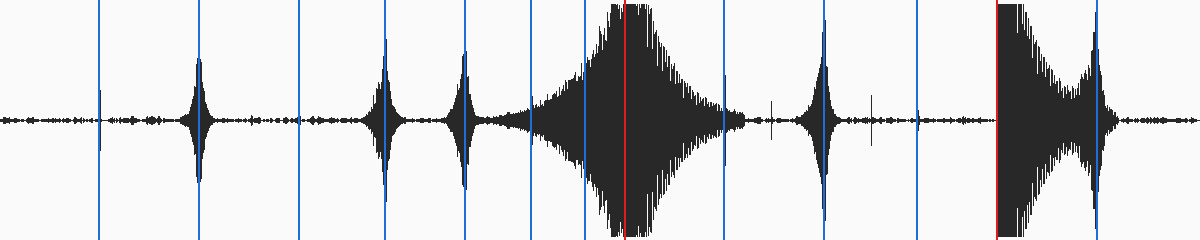
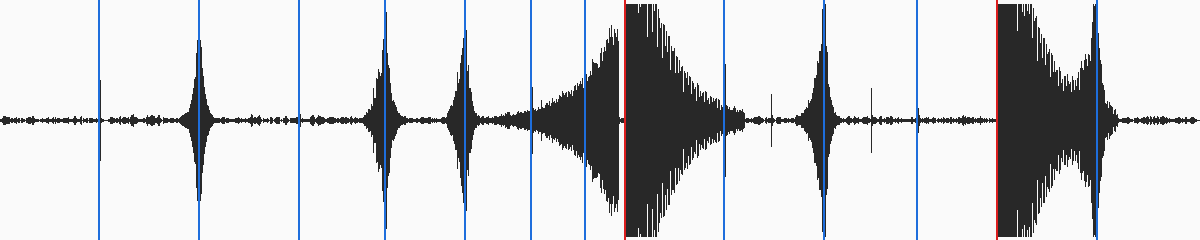
Culture : fiche Interstellar (rythme), goût de l'utilisateur
Claude-Session: https://claude.ai/code/session_01Vwuc2CmrtBg5vWFM7jieWS

diff --git a/labo/kinetic/kinetic_demo.py b/labo/kinetic/kinetic_demo.py
@@ -134,7 +134,7 @@ for k, c in enumerate(COUPES):
         poser(whoosh(av, 3, f0=250 + 80 * k, f1=3000 + 300 * k), c, -10 - (k % 3) * 2, f"whoosh_{av}i")
     else:
         poser(click(), c, -20, "click_coupe")
-poser(riser(30), debuts[IMPACT], -6, "riser")
+poser(riser(30), debuts[IMPACT] - 1, -12, "riser")  # v2 : -12 dB et coupé 1 image AVANT l'impact (trou = "suck-out")
 poser(whoosh(5, 4, 200, 2500), debuts[PUNCH], -12, "whoosh_punch")  # le punch-in a sa propre ponctuation
 
 # Texte mot à mot (calé sur les plans 10-13) + click doux par mot
@@ -170,17 +170,18 @@ m1 = ebur(sfx_wav)
 gain = -14.0 - m1["I"]
 af = f"volume={gain:.2f}dB"
 if m1["TP"] + gain > -1.5:
-    af += ",aresample=192000,alimiter=limit=0.8414:attack=1:release=50:level=false,aresample=48000"
+    af += ",aresample=192000,alimiter=limit=0.7079:attack=1:release=50:level=false,aresample=48000"
 sfx_norm = os.path.join(REND, "sfx_norm.wav")
 run(["ffmpeg", "-y", "-v", "error", "-i", sfx_wav, "-af", af, "-ar", "48000", "-c:a", "pcm_s24le", sfx_norm])
 m2 = ebur(sfx_norm)
 gain2 = 0.0
-if abs(m2["I"] + 14) > 0.5:  # le limiteur a mangé du niveau : 2e passe de gain sous limiteur
-    gain2 = -14.0 - m2["I"]
-    af2 = f"volume={gain2:.2f}dB,aresample=192000,alimiter=limit=0.8414:attack=1:release=50:level=false,aresample=48000"
-    run(["ffmpeg", "-y", "-v", "error", "-i", sfx_wav, "-af", af.split(",")[0] + "," + af2, "-ar", "48000",
-         "-c:a", "pcm_s24le", sfx_norm])
-    m2 = ebur(sfx_norm)
+passes = 1
+while abs(m2["I"] + 14) > 0.3 and passes < 5:  # le limiteur mange du niveau : on itère gain + limiteur
+    gain2 += -14.0 - m2["I"]
+    af2 = (f"volume={gain + gain2:.2f}dB,aresample=192000,alimiter=limit=0.7079:attack=1:release=50:level=false,"
+           "aresample=48000")
+    run(["ffmpeg", "-y", "-v", "error", "-i", sfx_wav, "-af", af2, "-ar", "48000", "-c:a", "pcm_s24le", sfx_norm])
+    m2 = ebur(sfx_norm); passes += 1; af = af2
 
 # ---------- 4. Vidéo : plans -> concat -> texte mot à mot -> mux ----------
 fichiers = [plan(i) for i in range(len(DUREES))]
@@ -210,7 +211,7 @@ a = np.frombuffer(pcm, np.float32)
 onsets = {}
 for idx in (IMPACT, IMPACT2):
     c = int(debuts[idx]) * SPF
-    w = a[c - 3 * SPF:c + 3 * SPF]
+    w = np.convolve(a[c - 3 * SPF:c + 3 * SPF], np.ones(240) / 240, mode="same")  # passe-bas ~200 Hz : ignore riser/whoosh
     k = int(np.argmax(np.abs(w) > 0.5 * np.max(np.abs(w))))
     onsets[f"plan{idx}"] = {"coupe_image": int(debuts[idx]), "onset_ms_vs_coupe": round((k - 3 * SPF) / SR * 1000, 1)}
 
@@ -238,7 +239,7 @@ onde = os.path.join(ICI, "forme_onde_coupes.png")
 run(["ffmpeg", "-y", "-v", "error", "-i", ppm, onde])
 
 res = {"durees_images": DUREES, "coupes_images": COUPES, "coupes_detectees_mp4": coupes_det,
-       "sfx": evenements, "loudness_sfx_brut": m1, "gain_db": round(gain, 2), "gain2_db": round(gain2, 2),
+       "sfx": evenements, "loudness_sfx_brut": m1, "gain_db": round(gain, 2), "gain2_db": round(gain2, 2), "passes": passes,
        "filtre": af, "loudness_sfx_norm": m2, "loudness_mp4": m3, "onsets_impact": onsets,
        "planche_ko": round(os.path.getsize(planche) / 1024, 1), "onde_ko": round(os.path.getsize(onde) / 1024, 1)}
 json.dump(res, open(os.path.join(ICI, "mesures.json"), "w"), indent=1, ensure_ascii=False, default=int)

diff --git a/culture/joker-couleur-image.md b/culture/joker-couleur-image.md
@@ -1,0 +1,88 @@
+# Joker — couleur et image (Lawrence Sher, Jill Bogdanowicz)
+
+- **Œuvre** : *Joker*, réalisé par Todd Phillips, 2019 (Lion d'or à Venise). Goût déclaré de l'utilisateur dans GOUTS.md : la **couleur** et l'**image**.
+- **Chef opérateur** : Lawrence Sher, ASC (fidèle de Phillips depuis *Very Bad Trip*). **Étalonneuse** : Jill Bogdanowicz (Company 3), prix HPA 2020 du meilleur étalonnage de long métrage. LUT conçue avec son père Mitch Bogdanowicz, ingénieur couleur passé par Kodak.
+- **Costumes** : Mark Bridges. **Décors** : Mark Friedberg. **VFX** : Scanline VFX et Shade VFX, effets presque invisibles.
+- **Format** : tourné en numérique (le 65 mm argentique voulu au départ a été refusé pour des raisons de coût). Surtout ARRI Alexa 65, plus Alexa LF et Mini LF ; optiques anciennes reconditionnées (ARRI Prime DNA, Vintage 765, Prime 65, plus des optiques photo Canon, Leica, Nikon et Zeiss). Ratio supposé 1.85:1 (non vérifié).
+- **Sources** :
+  - Slashfilm, entretien de Sher avec spoilers : https://www.slashfilm.com/569901/joker-cinematographer-interview/
+  - No Film School, reprise de l'entretien Variety (escaliers, métro) : https://nofilmschool.com/joker-lawrence-sher-interview
+  - Variety, escaliers et métro : https://variety.com/2019/artisans/features/joker-stairs-subway-scene-cinematographer-lawrence-sher-1203396242
+  - CineD, « Inside the look of Joker » : https://cined.com/inside-the-look-of-joker
+  - ASC, conversation de Sher avec Jim Hemphill et podcast : https://theasc.com/news/clubhouse-conversation-lawrence-sher-asc-on-joker et https://theasc.com/podcasts/joker-lawrence-sher-asc (lus via des résumés de recherche)
+  - Company 3, Bogdanowicz sur la LUT de *Folie à Deux*, qui reprend celle de 2019 : https://www.company3.com/?p=47557 ; prix HPA : https://www.company3.com/?p=24138
+  - Costume : https://www.motionpictures.org/2019/10/joker-costume-designer-mark-bridges/ et https://highsnobiety.com/p/joaquin-phoenix-joker-suit-explained
+  - Wikipédia (production, VFX, décors) : https://en.wikipedia.org/wiki/Joker_(2019_film) ; Scanline : https://digitalproduction.com/2020/08/21/joker-vfx-reel/
+
+## Ce que l'œuvre cherche à faire ressentir ou comprendre
+
+Il s'agit de rendre **physique** une ville malade et un homme qui y étouffe, puis de faire ressentir sa « libération » comme une **éclosion** séduisante et inquiétante à la fois. Sher veut retrouver le **souvenir** que l'on garde des films new-yorkais de la fin des années 70, pas leur rendu exact (« la mémoire du film », selon CineD). Il ne cherche pas l'exactitude technique. Le spectateur doit sentir la saleté, la fatigue et l'isolement d'Arthur, puis, quand il bascule, être **gêné d'être séduit** par la chaleur et l'énergie de l'image. Le film refuse le vernis du film de super-héros : on doit croire à un film d'auteur de 1981.
+
+## Les choix qui produisent cet effet
+
+- **Palette « malade »** : verts sales, jaune-orangé sodium, bleus de crépuscule, bruns et mauves délavés. Le vert n'est pas corrigé, c'est voulu : Sher explique qu'il aurait pu retirer la pointe de vert des rames de métro à l'étalonnage et qu'il l'a gardée pour la saleté de la ville (No Film School). Les vêtements d'Arthur (bleu, bordeaux, brun, mauve, gris, tissus « vieillis, surteints ») se fondent dans cette boue colorée (Wikipédia, d'après Bridges).
+- **Lumière motivée, technologie ancienne** : en extérieur, des **lampes à vapeur de sodium**, orange avec une pointe de vert (No Film School, Slashfilm, Wikipédia) ; en intérieur, des **tubes fluorescents toujours filtrés vers le vert**, jamais d'un blanc propre (No Film School). Sher dit avoir tenu à l'« ancienne technologie » : tungstène, HMI, softs de type Zip (British Cinematographer). Les LED servent seulement de complément caché (déboucher un fond, souligner un visage), parce qu'elles n'existaient pas en 1981. CineD parle de **vapeur de mercure** pour le couple orange-vert : c'est cohérent avec la physique (le mercure donne du bleu-vert) mais je n'ai qu'une source.
+- **Code émotionnel chaud/froid** : le bleu du crépuscule figure l'isolement d'Arthur, la lumière chaude son espoir ; la chaleur **revient à la fin, quand il choisit sa part sombre** (Slashfilm, Wikipédia). C'est le renversement central : le chaud, d'habitude rassurant, devient la couleur de la violence assumée.
+- **Émulation pellicule** : avant le tournage, une LUT de plateau a été construite pour évoquer les négatifs et positifs de la fin des années 70 et du début des années 80. Elle viserait la Kodak EXR 200T 5293 (résumé ASC, CineD dit « Kodak 5293 ») et donnerait une légère dominante cyan dans les ombres (résumé Company 3, plutôt à propos de la suite). Le grain serait de type « scan argentique » par canal R/V/B, plus présent sur les fonds froids et allégé sur les peaux (résumé d'un podcast de Cullen Kelly) : **incertain**.
+- **Optiques** : un jeu de verres anciens que Sher qualifie de « Frankenstein » (CineD). Il les a choisis pour le vignettage, les flares et les défauts d'époque. Le grand capteur de l'Alexa 65 donne une profondeur de champ courte qui isole Arthur de son décor.
+- **Contraste** : noirs denses mais pas bouchés, hautes lumières douces (rendu pellicule), l'image **s'assombrit** à mesure qu'Arthur change (CineD).
+- **Cadre et mouvement** : d'abord de **longs plans fixes**, des panoramiques et des tilts lents, puis de plus en plus de **caméra portée en courte focale**, plus énergique à mesure qu'Arthur se transforme (CineD, Slashfilm). Le cadre est improvisé autour de Phoenix, sans marques ni répétitions (Slashfilm). Les miroirs reviennent souvent pour montrer ses deux visages, triste puis sûr de lui.
+- **Effets visuels minimaux** : décors réels à New York, Newark et Jersey City. Les VFX servent à effacer les anachronismes, à prolonger les décors et à ajouter des immeubles, et ne se voient pas (Scanline, Wikipédia). L'image paraît « trouvée », pas fabriquée.
+
+**Scène 1, le métro (meurtres des trois traders).** Une rame en studio, des panneaux LED qui simulent le défilement, la lumière intérieure et extérieure pilotée depuis une console. Sher parle d'un « rêve fiévreux ». La règle est de ne **jamais filmer Arthur à hauteur d'yeux**, tout en caméra portée, avec une seule caméra (Geoffrey Haley seul dans la rame) et des courtes focales très près de lui (No Film School, Slashfilm). Au moment de la violence, les tubes s'éteignent et des **éclairs chauds venus de l'extérieur** découpent l'action. Le vert du métro se retrouve en plein dans le noir, avec des éclats orange. La couleur et la lumière se mettent à « penser » comme Arthur.
+
+**Scène 2, les toilettes publiques juste après.** Une danse lente improvisée en un seul plan, éclairée pour qu'Arthur puisse aller n'importe où dans la pièce, filmée à deux caméras sur la musique de Hildur Guðnadóttir que Phillips diffusait sur le plateau (Slashfilm). Les tons sont verts et sales, la lumière plafonnière fluorescente (lecture à l'écran). C'est la première fois que son corps prend l'espace : le décor reste malade, mais le mouvement devient gracieux.
+
+**Scène 3, les escaliers (180 marches, Bronx).** À l'aller, Arthur monte, fatigué, au crépuscule, dans des tons froids, filmé en panoramiques et tilts lents, avec un plan fixe en haut (No Film School). Au retour, il les descend en dansant, en costume rouge, sous un **soleil chaud en contre-jour**. La caméra est basse, sur une Technocrane, fluide, et Sher dit qu'il est puissant « peut-être pour la première fois de sa vie » (Slashfilm). C'est le même décor avec la lumière, la hauteur de caméra et le mouvement inversés : tout le récit tient dans ce plan.
+
+**Scène 4, le plateau de Murray Franklin.** Au début, on a la grammaire d'une émission de télé : plan seul de l'invité, plan à deux, Murray, plan large. Puis la caméra prend des angles **invisibles pour le public du show** et se resserre peu à peu jusqu'au très gros plan et aux amorces inversées depuis derrière le canapé et le bureau (Slashfilm). Le costume (bordeaux-rouge, gilet doré ou orange, chemise verte : « vert, or et rouge » selon Bridges) éclate sur le décor bleuté du plateau. Un projecteur dur l'éblouit (analyse de coloriste, colorculture.org, non vérifiée). C'est l'apogée de la saturation.
+
+**Scène 5 (finale), l'émeute.** Arthur regarde la ville en feu à travers la vitre de la voiture de police. Ce plan répond presque cadre pour cadre à un plan antérieur dans le bus, pris au même endroit et à la même hauteur (Slashfilm). Ensuite, debout sur le capot, il est éclairé par le feu, filmé en position de force, à l'opposé de son invisibilité du début. Le rouge et l'orange ont remplacé le vert.
+
+**Évolution sur tout le récit** : on passe d'un vert-cyan désaturé, froid et terne à un vert cassé où pointent les sodiums chauds, puis à un rouge-orange saturé (costume, feu, plateau télé). Le passage n'est pas linéaire : la chaleur sert d'abord l'espoir (Sophie, la mère), puis la violence.
+
+## Pourquoi ça marche, et ce qui serait raté si on changeait ces choix
+
+- **Avec un vert corrigé** et des tubes neutres, Gotham deviendrait une ville de série télé propre. On perdrait la sensation que l'air lui-même est malade, qui justifie la colère d'Arthur.
+- **Avec un teal & orange standard**, les peaux orange et les fonds bleus nets, on aurait un blockbuster lisible mais anonyme. La force de *Joker* vient de ce que **même ses chauds sont sales** : un orange sodium tirant vers le vert n'a rien de flatteur.
+- **Avec des LED et de la lumière douce partout**, on aurait un rendu contemporain et uniforme. La lumière d'époque, ponctuelle et colorée, donne des visages inégalement éclairés, donc vrais.
+- **Avec une caméra portée dès le début**, rien ne « libérerait » à la fin. C'est la retenue des plans fixes qui rend la Technocrane des escaliers euphorique.
+- **Avec un costume final désaturé**, la transformation perdrait son caractère d'événement. Le rouge n'a d'effet que parce qu'on en a été privé pendant 90 minutes.
+- **Avec une image numérique propre, sans LUT film ni grain**, l'année 1981 serait jouée par les décors seuls. Ici c'est la matière de l'image qui date le film.
+
+## Les ficelles réutilisables
+
+1. **Garder la dominante « fausse » au lieu de la corriger.** Un vert de tube fluo ou de sodium assumé raconte un lieu et un état. *Pub* : pour une campagne de prévention ou une marque de boisson énergisante « nuit urbaine », tourner en parking réel sous tubes, garder un vert dans les ombres et ne rendre leur couleur juste qu'aux peaux et au produit.
+2. **La chaleur se mérite.** Priver l'image de couleurs saturées pendant la majeure partie du film, puis lâcher une seule couleur forte (le rouge du costume) au moment de la bascule. *Clip* : couplets verdâtres et éteints, refrain où l'artiste apparaît dans un vêtement rouge sous un contre-jour chaud.
+3. **Inverser un même décor.** Revenir au même lieu en changeant la lumière (froid de face, puis chaud en contre-jour), la hauteur de caméra (haute, puis basse) et le mouvement (fixe, puis grue). *Corporate* : le même couloir au début (néons, plan fixe, salarié de dos) et à la fin (lumière du jour, caméra basse qui le suit).
+4. **Lumière motivée par des sources d'époque ou du lieu.** Chaque teinte doit venir d'une lampe visible ou plausible ; les LED restent cachées et ne servent qu'à déboucher. *Réseaux sociaux* : pour un format vertical de nuit, utiliser un lampadaire sodium comme lumière principale et un panneau LED caché uniquement pour sortir l'œil.
+5. **Grammaire de caméra qui évolue avec le personnage.** D'abord fixe, à hauteur neutre, ensuite portée, basse, en courte focale. *Pub en mini-série* : le premier épisode en plans fixes, le dernier en caméra portée, et le spectateur ressent le changement sans pouvoir le nommer.
+6. **Casser la grammaire télé pour créer la tension.** Commencer par les angles « officiels » (plan seul, plan à deux, plan large), puis glisser vers des angles impossibles pour un public et des gros plans serrés. *Interview corporate* : quand la parole devient sincère ou dure, quitter le dispositif à deux caméras pour un plan serré décentré.
+7. **[THÉORIQUE] Approcher le look dans DaVinci Resolve** (principes, pas une recette) :
+   - travailler en espace large (DaVinci Wide Gamut ou ACES), avec une LUT ou un DCTL d'émulation de négatif plus positif plutôt qu'une LUT créative toute faite ;
+   - ombres poussées légèrement vers le cyan-vert, noirs relevés d'un ou deux points et jamais purement neutres ;
+   - hautes lumières qui roulent doucement et tirent vers un jaune-orangé ;
+   - séparation des teintes : sortir les peaux du vert avec un qualificateur HSL ou les Color Warper, sans les rendre roses, et garder le rouge du costume dense, un peu sombre, plutôt que fluo ;
+   - saturation globale basse, sauf une teinte ;
+   - grain argentique par canal, plus présent dans les fonds froids que sur les peaux, un léger halo sur les sources ;
+   - faire évoluer le réglage par scène ou par chapitre au lieu d'appliquer un seul look à tout le film.
+8. **Cacher les VFX derrière le réel.** Tourner en décor vrai et réserver le compositing au nettoyage et aux extensions. *Pub produit* : packshot dans un vrai lieu, logo anachronique effacé en post, plutôt qu'un fond tout en image de synthèse.
+
+## Limites / quand ne pas l'appliquer
+
+- **Le « look Joker » plaqué** : une LUT verdâtre et du grain sur une vidéo sans récit de chute ni de bascule, c'est un filtre, pas une intention. Tout le système repose sur l'**évolution**. Un look fixe de 30 secondes n'en garde que la saleté.
+- **Image de marque** : un vert sale sur les peaux et les produits alimentaires ou cosmétiques fait vite malade, ou pas frais. Il faut réserver ce traitement aux fonds.
+- **Connotations** : le film a été critiqué pour sa complaisance supposée envers la violence de son héros. Reprendre son esthétique pour une marque, c'est importer ce soupçon. Prudence sur les sujets sensibles (santé mentale, armes).
+- **Pastiche** : plusieurs critiques ont trouvé le film trop dérivé de *Taxi Driver* et de *La Valse des pantins* (Harvard Crimson ; NoHo Arts District, « un brin dérivatif »), d'autres y voient un hommage assumé (Motion State Review). Reprendre *Joker*, c'est copier une copie : il vaut mieux remonter aux sources (Scorsese, Lumet, *Serpico*, *Vol au-dessus d'un nid de coucou*, toutes citées comme références selon CineD).
+- **Diffusion mobile** : des noirs denses et un vert sombre sur un téléphone en plein jour, ça donne de la boue. Il faut un contraste un peu plus franc et vérifier sur un écran de smartphone.
+- **Moyens** : ce rendu tient aussi à un capteur 65 mm et à des optiques anciennes. Avec un petit capteur et des optiques modernes très piquées, la même grille d'étalonnage paraît plus « filtre Instagram ».
+
+## Points non vérifiés
+
+- Ratio 1.85:1 : supposé, aucune source trouvée.
+- La pellicule émulée (Kodak EXR 200T 5293) repose sur un résumé ASC et sur CineD, sans lecture directe de l'article d'American Cinematographer. Je n'ai pas vérifié non plus que cette pellicule date bien de la fin des années 80, ce qui la rendrait techniquement postérieure à 1981.
+- La dominante cyan dans les ombres et le grain par canal R/V/B moins présent sur les peaux viennent de résumés (Company 3 sur *Folie à Deux*, podcast Cullen Kelly). Rien ne garantit qu'ils s'appliquent exactement au film de 2019.
+- Vapeur de mercure : une seule source (CineD). Le sodium est confirmé par trois sources.
+- La couleur exacte du gilet final (or ou orange) et celle de la chemise (vert ou teal) varient selon les sources.
+- La couleur des toilettes et le projecteur dur du plateau de Murray viennent de ma lecture à l'écran et d'un blog, pas d'une déclaration de l'équipe.
+- Le partage exact entre les optiques DNA, Vintage 765 et photo selon les scènes n'a pas été vérifié.

diff --git a/culture/interstellar-rythme.md b/culture/interstellar-rythme.md
@@ -1,0 +1,104 @@
+# Interstellar — le rythme comme horloge (goût de l'utilisateur)
+
+- **Film** : *Interstellar*, 2014, 169 min (Slashfilm).
+- **Réalisation** : Christopher Nolan. **Montage** : Lee Smith (6e film avec Nolan, selon Cinemontage). **Musique** : Hans Zimmer (orgue Harrison & Harrison de 1926 du Temple Church de Londres, joué par Roger Sayer). **Son** : Richard King (supervision du montage son). **Image** : Hoyte van Hoytema.
+- **Format** : environ 60 à 70 min tournées en IMAX 65/70 mm, le reste en 35 mm anamorphique (van Hoytema, Den of Geek). Ratio qui change entre 2,39 et 1,43/1,90 en IMAX.
+- **Pourquoi cette fiche** : l'utilisateur aime le film « pour son RYTHME ». On démonte les mécanismes, sans copier le film.
+- **Sources** :
+  - Post Magazine, entretien Lee Smith (déc. 2014) : https://www.postmagazine.com/Publications/Post-Magazine/2014/December-1-2014/Interstellar-Editor-Lee-Smith-ACE.aspx
+  - Cinemontage, montage d'*Interstellar* (Smith, Nolan) : https://cinemontage.org/interstellar-exploration-space-well-filmmaking/ (non lu en entier, page vide ; via résumé de recherche)
+  - Slashfilm, Nolan défend son mixage : https://www.slashfilm.com/534906/christopher-nolan-interstellar-sound-problems
+  - AP, « Movie mumbles » (dialogues couverts, amarrage compris) : https://www.covnews.com/nationworld/movie-mumbles-the-story-behind-the-interstellar-dialogue/
+  - No Film School, musique calée sur la physique : https://nofilmschool.com/interstellar-music-timed-to-physics
+  - No Film School, l'horloge cachée dans la musique (essai vidéo d'Entertain the Elk) : https://nofilmschool.com/2018/06/interstellars-ticking-clock-hiding-suspense-plain-sight
+  - Cineworld, tic de 1,25 s : https://customerservice.cineworld.co.uk/static/en/uk/blog/hans-zimmer-best-interstellar-soundtrack-moments
+  - Wikipedia, bande originale (lettre de Nolan, orgue, Roger Sayer) : https://en.wikipedia.org/wiki/Interstellar_(soundtrack)
+  - Classic FM, genèse de la musique : https://www.classicfm.com/composers/zimmer/how-wrote-interstellar-music/
+  - Den of Geek, van Hoytema (IMAX, références NASA) : https://www.denofgeek.com/movies/interview-interstellar-cinematographer-hoyte-van-hoytema/
+  - Filmmaker Magazine, son (Richard King) : https://filmmakermagazine.com/?p=88429
+  - Slashfilm, durée : https://www.slashfilm.com/how-long-is-interstellar-running-time
+
+## Ce que l'œuvre cherche à faire ressentir ou comprendre
+
+- **Le temps comme coût.** Chaque minute passée par Cooper dans l'espace se paie en années perdues avec ses enfants. Le film veut qu'on *sente* la relativité dans le ventre, pas qu'on la comprenne au tableau.
+- **Un père et une fille séparés.** Avant toute science-fiction, Nolan a donné à Zimmer une lettre sur le lien parent-enfant, sans dire que c'était un film spatial (Wikipedia, Classic FM, No Film School : trois sources concordent). Le rythme sert ce noyau intime.
+- **Le réalisme documentaire de l'espace** : un vaisseau qui grince, des plans comme filmés par une caméra embarquée, une IMAX inspirée des images de missions NASA (van Hoytema). Le spectaculaire vient de l'échelle, pas de l'effet.
+- **Une expérience physique** : Nolan parle d'un film « expérientiel » où le son est traité de façon « impressionniste » (Slashfilm).
+
+## Les choix qui produisent ce rythme
+
+**Principe général : deux horloges qui ne tournent pas à la même vitesse, et le montage les fait se frotter.** L'espace est « lent » (minutes), la Terre est « rapide » (années). Chaque retour d'une ligne à l'autre rend visible l'écart.
+
+**Séquence 1 — Le départ de la ferme (fin du premier acte, autour de 50 min, à vérifier).**
+- Cooper quitte Murph fâchée. Il monte dans le pick-up, Murph sort en courant et l'appelle. Sur ces images, on entend **un compte à rebours** qui appartient à la scène suivante : c'est un *prélap* sonore (le son de la scène B commence sous la fin de la scène A).
+- Correction du brief : la voix du décompte n'est **pas** celle de Murph. Selon les résumés (GradeSaver, SparkNotes), c'est TARS, qu'on découvre dans le cockpit. Les cris de Murph et le décompte se chevauchent : la fille appelle, la machine compte.
+- Sur « zéro », coupe franche sur la poussée des boosters. **Aucun plan de transition** (route, ciel, trajet vers la base) : on saute de la ferme au décollage. Le décompte fait office d'ellipse et de pont émotionnel à la fois.
+- Effet : la séparation et le départ deviennent **un seul geste**. Le spectateur n'a pas le temps de « faire son deuil » de la scène d'adieu ; il est éjecté avec Cooper.
+
+**Séquence 2 — La planète de Miller (« Mountains »).**
+- Règle posée par le dialogue juste avant : une heure là-bas = sept ans sur Terre. Une fois la règle dite, **chaque seconde à l'écran devient chère**.
+- La musique de Zimmer, *Mountains*, porte un **tic régulier**. Plusieurs articles disent que chaque tic représente un jour terrestre (No Film School) et qu'il tombe toutes les 1,25 s (Cineworld). Je n'ai trouvé **aucune déclaration de Zimmer ou Nolan** confirmant le 1,25 s : c'est une analyse de fans reprise par la presse.
+- Vérification arithmétique : 7 ans par heure donne un jour terrestre toutes les 3600 / (7 × 365,25) ≈ 1,41 s. Avec le bilan final (23 ans, 4 mois et 8 jours perdus pour un séjour d'un peu plus de 3 h), on tombe vers 1,3-1,4 s. Le 1,25 s est donc **une approximation** : l'idée est juste (un tic ≈ un jour), le chiffre ne l'est pas au centième.
+- La vague géante est montrée **d'abord comme une montagne** (on la prend pour un relief), puis révélée : surprise par l'échelle, pas par le montage rapide. Les plans restent assez longs, le stress vient du tic et de l'attente de la vague.
+
+**Séquence 3 — Les messages de 23 ans (retour sur l'*Endurance*).**
+- Le pendant inverse de Miller : **toute la dilatation se déverse d'un coup**. Romilly annonce les années perdues, puis Cooper visionne des années de messages vidéo de ses enfants.
+- Le montage alterne les écrans (le fils grandit, se marie, perd un enfant) et le visage de Cooper en plan serré, tenu longtemps. Le temps terrestre est compressé en quelques minutes d'écran ; le temps de Cooper, lui, est **dilaté** dans des plans qui ne coupent pas.
+- Le dernier message, celui de Murph adulte qui a l'âge qu'avait son père au départ, clôt la séquence : la règle physique devient un chiffre émotionnel.
+
+**Séquence 4 — L'amarrage (« No Time for Caution »).**
+- Après l'explosion provoquée par Mann, l'*Endurance* tourne sur elle-même, à environ 67-68 tours/minute selon la réplique de CASE (souvenir du film, à revérifier). Cooper décide d'arrimer quand même.
+- La musique est un **ostinato d'orgue qui monte par couches** : chaque nouvelle couche fait office de « coupe » sonore. La pulsion musicale régulière donne le tempo aux plans (rotation, cockpit, mains, visages).
+- La règle de point de vue de Nolan : sa préoccupation principale en montage, c'est le point de vue (Cinemontage, lu via résumé). D'après Post Magazine (lu via résumé), Nolan aurait poussé Smith à **se passer des plans extérieurs « de confort »** qu'un monteur utilise d'habitude pour respirer (vaisseau qui s'amarre, Saturne). Les plans extérieurs ressemblent à des caméras fixées sur la coque.
+- Le mixage est très fort et des répliques sont **sous** la musique et les effets (l'AP cite précisément l'amarrage). C'est voulu : Nolan dit mettre parfois le dialogue sous les effets pour faire sentir le vacarme (Slashfilm).
+- Observation (à revérifier au visionnage) : les plans extérieurs pris dans le vide sont **silencieux ou réduits à la musique**, alors que l'intérieur hurle. Le contraste intérieur/extérieur est une « coupe » sonore à lui seul.
+
+**Séquence 5 — Le troisième acte en montage parallèle (Mann / Murph / tesseract).**
+- Le film alterne de plus en plus vite : combat avec Mann sur la planète glacée, Murph qui revient à la ferme et met le feu au maïs, puis Cooper dans le tesseract et Murph dans sa chambre d'enfant.
+- La durée des segments **raccourcit** à mesure que l'acte avance : le rapprochement des alternances fabrique l'accélération sans changer la longueur moyenne des plans de chaque ligne.
+- Le montage final relie les deux lignes par un **objet** (la montre, la bibliothèque) : le raccord n'est plus spatial mais causal.
+
+**Autres constantes.**
+- **Musique-horloge** : Zimmer travaille par motifs simples répétés (orgue, piano), pas par mélodies narratives. La répétition régulière fonctionne comme un métronome que le montage peut suivre ou contredire.
+- **Scènes de dialogue** : découpage classique en champ/contrechamp, beaucoup de répliques d'exposition. Les scènes commencent souvent tard et coupent sur la réplique suivante déjà lancée (observation, non sourcée).
+- **Durée moyenne des plans (ASL)** : le film figure dans la base Cinemetrics, mais je n'ai pas pu lire le chiffre. Aucune valeur n'est donnée ici pour ne pas l'inventer.
+- **Structure** : un long premier acte terrien (presque un tiers du film), puis l'espace. La lenteur du début est un investissement : plus on a vécu avec Murph, plus chaque année perdue coûte.
+
+## Pourquoi ça marche, et ce qui serait raté si on changeait ces choix
+
+- **Sans le prélap du décompte**, le départ serait : adieu → fondu → base → décollage. On gagnerait en clarté et on perdrait la violence de l'arrachement. Le chevauchement des voix dit « partir, c'est abandonner » sans une réplique.
+- **Sans la règle « 1 h = 7 ans » dite avant la séquence de Miller**, le tic ne serait qu'une ambiance. C'est la règle énoncée qui transforme un son neutre en compteur. Un tic sans règle, c'est de la décoration ; une règle sans tic, c'est un chiffre qu'on oublie.
+- **Si la séquence des messages était montée vite** (cut sur cut, musique forte), on aurait un clip. En tenant le visage de Cooper, Nolan fait vivre au spectateur le temps qui a manqué au personnage.
+- **Avec des plans extérieurs de respiration** pendant l'amarrage, la tension retomberait à chaque coupe. Les supprimer garde le spectateur dans le cockpit, sans issue.
+- **Avec un montage parallèle à rythme constant** dans le troisième acte, on aurait de l'alternance mais pas de montée. C'est la contraction des segments qui produit la course.
+- **Si le premier acte était raccourci** (ce que des fan-edits ont tenté, en retirant par exemple le dîner), l'action arriverait plus tôt mais la séparation pèserait moins.
+
+## Les ficelles réutilisables
+
+1. **Poser la règle du temps, puis la faire entendre.** Dire (ou écrire) une équation simple, puis la matérialiser par un son régulier. *Pub 30 s (assurance, banque)* : carton « chaque seconde, X personnes… », puis un tic discret qui court sous tout le film ; à la fin, le tic s'arrête sur le logo.
+2. **Le prélap qui arrache.** Lancer le son de la scène suivante (décompte, moteur, annonce) sous la fin d'une scène émotionnelle, et couper sur le temps fort. *Clip* : le compte à rebours ou le premier temps du refrain démarre sous le plan intime du couplet ; coupe nette au « drop ».
+3. **Deux horloges qui ne vont pas à la même vitesse.** Alterner une ligne lente (plans longs) et une ligne rapide (ellipses) pour que chaque retour montre le temps écoulé. *Corporate* : un artisan filmé en temps réel sur un geste, intercalé avec l'entreprise qui grandit sur 20 ans en photos d'archives.
+4. **Compresser d'un côté, dilater de l'autre dans la même séquence.** Le temps raconté passe vite (écrans, photos), le visage qui regarde ne coupe pas. *Réseaux sociaux* : une personne regarde son fil de photos d'il y a 10 ans ; on reste 4 à 5 s sur sa réaction au lieu d'enchaîner.
+5. **La musique comme ostinato qui monte par couches.** Un motif simple répété, une couche ajoutée toutes les 4 ou 8 mesures ; chaque couche autorise une coupe plus serrée. *Pub 30 s* : 4 couches = 4 paliers de rythme de montage, de plans de 3 s à des plans de 0,5 s.
+6. **Raccourcir les segments du montage parallèle à l'approche du climax.** 8 s / 8 s, puis 4 / 4, puis 2 / 2, puis 1 / 1, puis réunion. *Clip* : deux personnages qui se cherchent dans la ville, alternances de plus en plus courtes jusqu'au plan commun.
+7. **Retirer les plans de respiration pendant la tension.** Pas de plan large rassurant, pas de plan d'ambiance : on reste dans le point de vue. *Corporate sécurité / sport* : une course filmée uniquement en caméra embarquée et en gros plans, le large n'arrive qu'à l'arrivée.
+8. **Le silence comme contre-coupe.** Passer d'un intérieur saturé à un extérieur muet (ou l'inverse) frappe plus fort qu'un nouveau bruit. *Réseaux sociaux* : à 0:02, tout le son tombe pendant 1 s avant la révélation ; c'est souvent ce qui arrête le pouce.
+
+## Limites / quand ne pas l'appliquer
+
+- **Dialogues couverts.** Le mixage a été critiqué dès la sortie (AP, Hollywood Reporter via Slashfilm) : des répliques clés sont inaudibles. Nolan assume. En pub, corporate ou réseaux sociaux, **c'est interdit en pratique** : petits haut-parleurs, visionnage sans son, sous-titres. On garde l'idée (le son raconte la pression), jamais au prix de l'intelligibilité d'une info utile (voir `montage-loudness-livraison`).
+- **Sentimentalité et explication.** Le monologue de Brand sur l'amour qui traverse le temps et les nombreuses répliques d'exposition ont été jugés lourds par une partie de la critique. Le rythme de Nolan tient grâce à l'image et au son ; quand le dialogue explique l'émotion, il ralentit. En format court, on n'a pas le temps de dire et de montrer : choisir montrer.
+- **Durée.** La lenteur du premier acte est payée par 169 min de film. En 30 s, on ne peut pas « investir » une heure ; il faut remplacer l'investissement par un signe très fort (un objet, un visage connu, une phrase).
+- **Musique omniprésente.** L'orgue très fort peut écraser. Pour un corporate ou un documentaire sobre, l'ostinato doit rester sous le niveau de la voix.
+- **Ne pas copier l'orgue et le tic.** Ils sont devenus des clichés de bandes-annonces depuis 2014. Reprendre le principe (un son régulier qui compte), pas le timbre.
+
+## Points non vérifiés
+
+- **Le tic de 1,25 s** : présent dans des articles de presse grand public et des discussions de fans, jamais confirmé par Zimmer ou Nolan dans ce que j'ai lu. Le calcul donne plutôt ≈ 1,3-1,4 s pour « un jour ». À mesurer sur la piste *Mountains* (tempo en BPM) avant de le citer comme fait.
+- **La voix du décompte** : TARS selon deux résumés d'intrigue (GradeSaver, SparkNotes) ; à confirmer au visionnage. Ce n'est pas la voix de Murph, contrairement au brief.
+- **Le minutage des séquences** (départ vers 50 min, durée de l'amarrage, etc.) : de mémoire, non mesuré.
+- **ASL** : non trouvé (le film est dans Cinemetrics, chiffre non lu).
+- **Silence des plans extérieurs** : observation à revérifier ; aucune source lue ne le décrit précisément.
+- **Les 67-68 tours/minute** de l'*Endurance* : souvenir de la réplique, non sourcé.
+- **Consigne de Nolan à Smith sur les plans extérieurs** : vient d'un résumé de Post Magazine un peu confus ; Cinemontage (point de vue) n'a pu être lu qu'en résumé. Aucun entretien de Smith lu n'analyse en détail le montage parallèle d'*Interstellar*.
+- **Contraction des segments du troisième acte** : observation d'analyse, pas mesurée plan par plan.

diff --git a/sources/culture-session1.md b/sources/culture-session1.md
@@ -124,3 +124,20 @@ Sources utilisées pour les 5 fiches de `culture/` (Murch, Schoonmaker, Bass, Co
 - https://www.booska-p.com/?p=214011 — clip « You Know » (2022), ambiance très sombre ; *Akimbo* disque d'or.
 - https://www.deezer.com/artist/7668530 — titre de 3:45, Sam Tiba crédité (via résumé, non lu directement).
 - https://www.synonyme-du-mot.com/les-articles/ou-est-nee-ziak — origine Évry et bandana (source secondaire peu fiable).
+
+## Goûts de l'utilisateur — Interstellar
+
+Fiche : `culture/interstellar-rythme.md`.
+- https://www.postmagazine.com/Publications/Post-Magazine/2014/December-1-2014/Interstellar-Editor-Lee-Smith-ACE.aspx — entretien Lee Smith : la difficulté du film est dans le rythme ; montage d'abord linéaire ; consigne de Nolan sur les plans extérieurs (lu via un résumé, formulation confuse).
+- https://cinemontage.org/interstellar-exploration-space-well-filmmaking/ — Smith et Nolan : montage parallèle travaillé en post-production, le point de vue comme priorité (page vide à la lecture ; via résumé de recherche).
+- https://www.slashfilm.com/534906/christopher-nolan-interstellar-sound-problems — Nolan défend un mixage « impressionniste », dialogues parfois sous les effets, voulu.
+- https://www.covnews.com/nationworld/movie-mumbles-the-story-behind-the-interstellar-dialogue/ — AP : dialogues couverts, y compris pendant l'amarrage (lu via résumé).
+- https://nofilmschool.com/interstellar-music-timed-to-physics — un tic = un jour terrestre dans *Mountains* ; orgue du Temple Church ; lettre de Nolan à Zimmer.
+- https://nofilmschool.com/2018/06/interstellars-ticking-clock-hiding-suspense-plain-sight — suspense caché dans la musique (essai vidéo Entertain the Elk).
+- https://customerservice.cineworld.co.uk/static/en/uk/blog/hans-zimmer-best-interstellar-soundtrack-moments — source du chiffre 1,25 s (non primaire).
+- https://en.wikipedia.org/wiki/Interstellar_(soundtrack) — lettre de Nolan, orgue Harrison & Harrison 1926, Roger Sayer.
+- https://www.classicfm.com/composers/zimmer/how-wrote-interstellar-music/ — pièce piano-orgue écrite en une nuit après la lettre.
+- https://www.denofgeek.com/movies/interview-interstellar-cinematographer-hoyte-van-hoytema/ — 60-70 min en IMAX, références aux images NASA.
+- https://filmmakermagazine.com/?p=88429 — son de Richard King : approche documentaire, basses fréquences, son direct dans le vaisseau (via résumé).
+- https://www.slashfilm.com/how-long-is-interstellar-running-time — durée 169 min.
+- https://www.gradesaver.com/interstellar/study-guide/summary-section-3-cooper-says-goodbye-to-tom-the-ranger-heads-to-millers-planet — départ de la ferme : décompte en prélap, voix de TARS.
